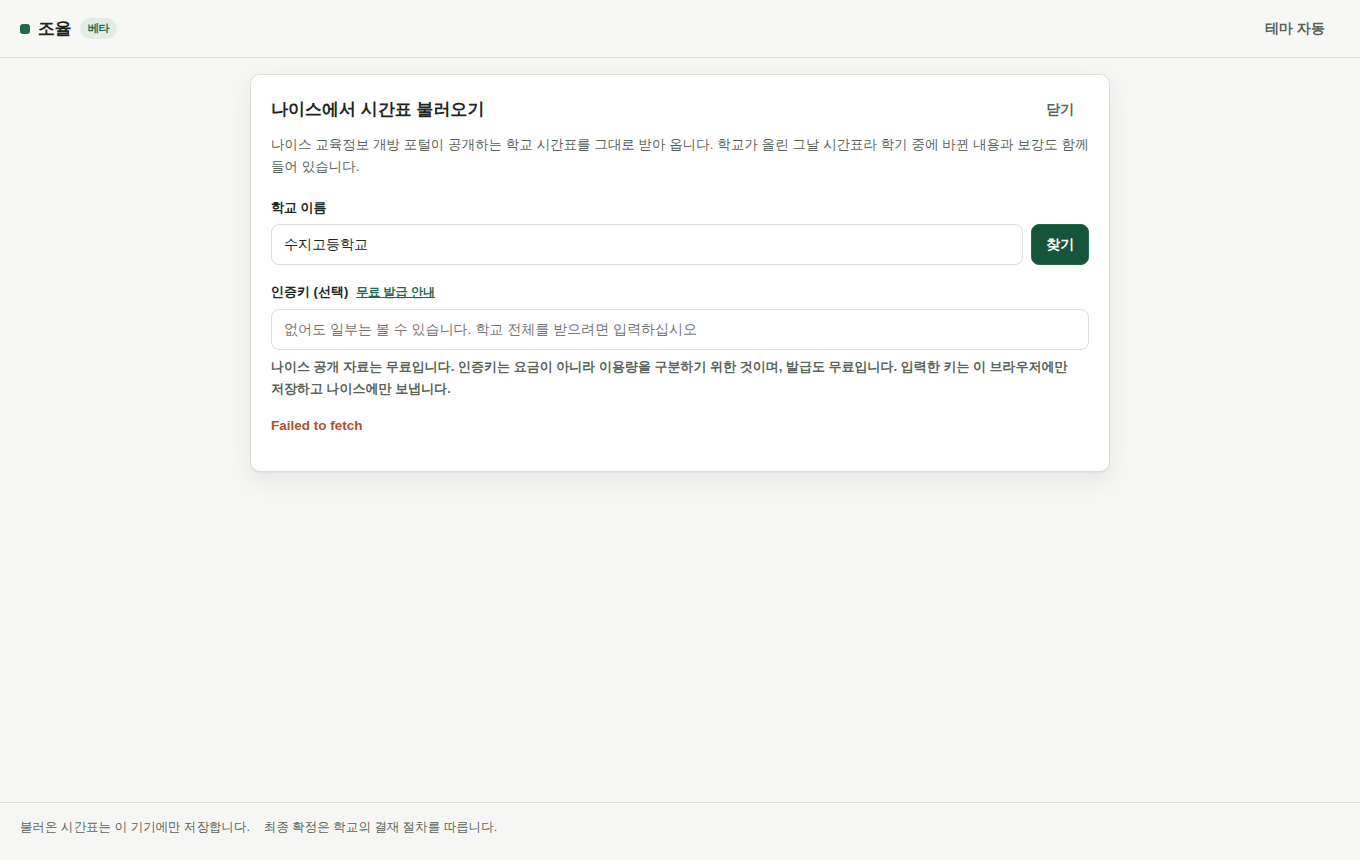
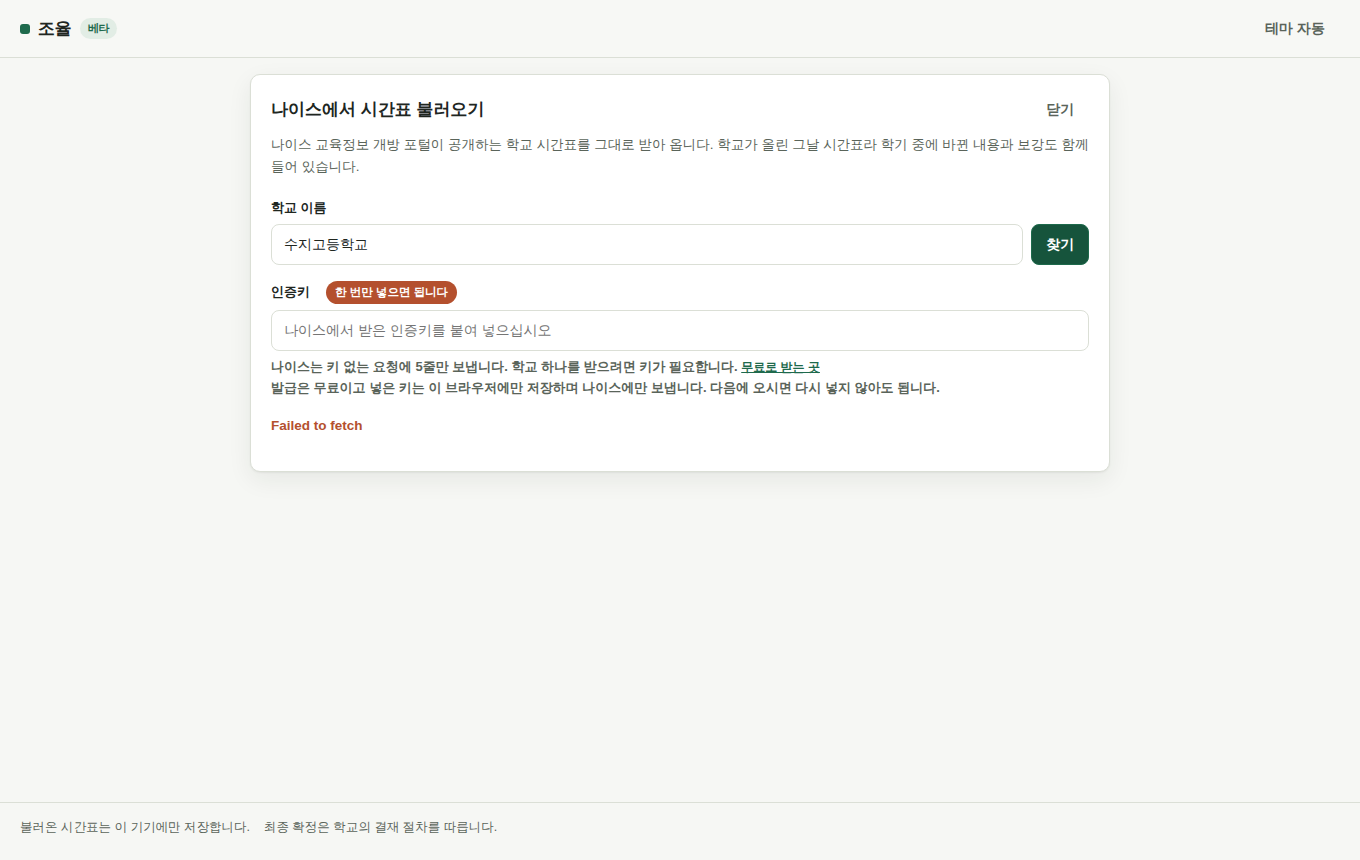
자료가 없는 것을 빈 시간으로 읽던 자리 둘을 막는다
실제 학교 자료를 폰 화면에 띄워 보고 나서야 드러난 것들이다.

## 자료가 없는 요일

수요일이 통째로 비어 있었다. 실제 학교가 수요일에 수업을 안 할 수는 없다. 수집할 때
그 요일을 안 받은 것이었다. 앱은 없는 자료를 정직하게 비워 두었는데, 엔진이 그 빈 자리를
옮겨도 되는 자리로 읽었다.

    추천안 488개 가운데 수요일로 옮기라는 안 21개

담당 교사를 안 채운 자리와 똑같은 잘못이다. 모르는 것을 없는 것으로 바꾸면 그 자리가
비어 보인다. 수업이 하나도 관측되지 않은 요일을 찾아 탐색에서 빼고, 요일 머리글에
사유를 적는다. 고친 뒤 0개가 되었다.

아무것도 못 받은 경우에는 아무 요일도 막지 않는다. 근거가 없을 때 5일을 다 막으면
화면이 통째로 잠긴다.

## 인증키

"인증키 (선택)" 이라고 적어 두었던 것이 잘못이었다. 재어 보니 선택이 아니다.

    GET hisTimetable (학급 하나, 하루, 키 없음)
    list_total_count 6   그날 그 학급은 6교시다
    받은 행 5            6교시는 오지 않는다

쪽 넘김도 듣지 않는다. 게다가 앱은 학교 전체를 한 번에 묻기 때문에 키가 없으면
5주치 수천 행 가운데 5행을 받는다. 그것으로 만든 시간표는 거의 다 빈 시간이고,
빈 시간은 옮겨도 되는 자리로 읽힌다.

경고만 띄우고 통과시키던 것을 멈추게 바꿨다. 몇 줄 가운데 몇 줄이 왔는지와 왜 안 되는지를
숫자로 적는다. 라벨에서 "(선택)" 을 빼고 키가 없으면 "한 번만 넣으면 됩니다",
있으면 "저장됨" 을 붙인다. 키는 이미 이 브라우저에 저장되고 있었다.

## 받은 자료가 어디까지인지 보여 준다

학급 수와 요일과 교시를 적는다. 빠진 요일이 있으면 그 요일과 함께 알린다.
이것이 없어서 수요일이 빠진 것을 아무도 알 수 없었다.

## 그 밖에

힌트 문장이 세 칸으로 쪼개져 있었다. .neis-field 의 flex 규칙이 라벨 줄만이 아니라
힌트 문장에도 걸려, 굵은 글씨와 링크가 각각 flex 항목이 된 탓이다.

요일 머리글 안내 문구가 "자료를 받지 못한 요일이라 수업이 없습니다" 로 어긋나던 것을
사유에 무엇이 오든 문장이 되게 고쳤다.

시험 4개를 더했다. 자료 없는 요일 찾기, 담당 미상 자리를 증거로 세는 것,
근거가 없을 때 아무것도 막지 않는 것, 다 채워졌을 때 빈 요일이 없는 것이다.

Changed region(s): [[0.1853, 0.3023, 0.8029, 0.4837]]

diff --git a/apps/web/components/NeisLoader.tsx b/apps/web/components/NeisLoader.tsx
@@ -74,6 +74,25 @@ export function NeisLoader({ neisKey, onKeyChange, onDone, onCancel }: Props) {
           setError('그 기간의 시간표가 아직 공개되지 않았습니다. 학교에 시간표가 올라간 뒤 다시 시도해 주십시오.');
           return;
         }
+        /*
+         * 잘린 자료로는 다음 단계로 보내지 않는다.
+         *
+         * 키가 없으면 학교 전체 질의에 5행만 온다. 5주치 학교 하나가 수천 행인데 5행이다.
+         * 그것으로 만든 시간표는 거의 다 빈 시간이고, 빈 시간은 "옮겨도 되는 자리"로 읽힌다.
+         * 그러면 성립하지 않는 교체를 잔뜩 내놓는다. 경고만 띄우고 통과시키면
+         * 사용자는 그 경고를 지나치고 틀린 안을 받는다.
+         *
+         * 그래서 여기서 멈추고 무엇이 필요한지 숫자로 알린다.
+         */
+        if (tt.truncated) {
+          setError(
+            `나이스가 ${tt.total.toLocaleString()}줄 가운데 ${tt.rows.length}줄만 보냈습니다. ` +
+              '인증키 없는 요청은 5줄에서 끊기고 쪽 넘김도 되지 않습니다. ' +
+              '이 상태로 만든 시간표는 대부분이 빈 시간이 되어, 실제로는 수업이 있는 자리로 ' +
+              '옮기라는 안이 나옵니다. 아래에 무료 인증키를 넣고 다시 찾아 주십시오.',
+          );
+          return;
+        }
         const rep = fromNeis(tt.rows);
         setSchool(picked);
         setRows(tt.rows);
@@ -81,11 +100,6 @@ export function NeisLoader({ neisKey, onKeyChange, onDone, onCancel }: Props) {
         setRange(range);
         setReport(rep);
         setStage('배정');
-        if (tt.truncated) {
-          setError(
-            '인증키가 없어 일부만 받았습니다. 학교 전체를 받으려면 무료 인증키를 입력하십시오.',
-          );
-        }
       } catch (e) {
         setError(e instanceof Error ? e.message : '시간표를 받지 못했습니다');
       } finally {
@@ -94,6 +108,28 @@ export function NeisLoader({ neisKey, onKeyChange, onDone, onCancel }: Props) {
     },
     [neisKey],
   );
+
+  /**
+   * 받은 자료가 어디까지 덮는지.
+   *
+   * 이것을 보여 주지 않으면 사용자는 받은 것이 온전한지 알 수 없다.
+   * 실제로 어떤 학교 자료에서 수요일이 통째로 빠진 채 들어왔고, 그 요일이 빈 시간으로
+   * 보여 추천안 488개 가운데 21개가 수요일로 옮기라고 했다. 화면에 아무 표시도 없었다.
+   */
+  const coverage = useMemo(() => {
+    const names = ['월', '화', '수', '목', '금'];
+    if (!report) {
+      return { klasses: 0, periods: 0, dayNames: '', missingDays: [] as string[] };
+    }
+    const lessons = report.cells.filter((c) => c.kind === '수업');
+    const seen = new Set(lessons.map((c) => c.day));
+    return {
+      klasses: new Set(lessons.map((c) => c.klass)).size,
+      periods: report.config.periods,
+      dayNames: names.filter((_, i) => seen.has(i)).join(''),
+      missingDays: names.filter((_, i) => i < report.config.days && !seen.has(i)),
+    };
+  }, [report]);
 
   /** 교사를 채워야 할 (학급, 과목) 목록 */
   const pairs = useMemo(() => {
@@ -162,22 +198,36 @@ export function NeisLoader({ neisKey, onKeyChange, onDone, onCancel }: Props) {
           </div>
         </label>
 
+        {/*
+         * 이 자리를 "선택" 으로 적어 두었던 것이 잘못이었다.
+         * 키가 없으면 나이스가 학교 전체 질의에 5행만 준다. 쪽 넘김도 듣지 않는다.
+         * 실측에서 어떤 학급의 하루가 6교시인데 5행에서 끊겼다.
+         * 학교 하나를 받아 교체를 찾는 일은 키 없이 되지 않는다.
+         * 선택이라고 적으면 안 넣고 진행했다가 빈 시간표를 보고 도구를 접는다.
+         */}
         <label className="neis-field">
           <span>
-            인증키 (선택)
-            <a className="neis-link" href={NEIS_KEY_GUIDE} target="_blank" rel="noreferrer">
-              무료 발급 안내
-            </a>
+            인증키
+            {neisKey === '' ? (
+              <b className="neis-need">한 번만 넣으면 됩니다</b>
+            ) : (
+              <b className="neis-ok">저장됨</b>
+            )}
           </span>
           <input
             className="input"
-            placeholder="없어도 일부는 볼 수 있습니다. 학교 전체를 받으려면 입력하십시오"
+            placeholder="나이스에서 받은 인증키를 붙여 넣으십시오"
             value={neisKey}
             onChange={(e) => onKeyChange(e.target.value.trim())}
           />
           <span className="neis-hint">
-            나이스 공개 자료는 무료입니다. 인증키는 요금이 아니라 이용량을 구분하기 위한 것이며,
-            발급도 무료입니다. 입력한 키는 이 브라우저에만 저장하고 나이스에만 보냅니다.
+            나이스는 키 없는 요청에 <b>5줄만</b> 보냅니다. 학교 하나를 받으려면 키가 필요합니다.{' '}
+            <a className="neis-link" href={NEIS_KEY_GUIDE} target="_blank" rel="noreferrer">
+              무료로 받는 곳
+            </a>
+            <br />
+            발급은 무료이고 넣은 키는 이 브라우저에만 저장하며 나이스에만 보냅니다. 다음에 오시면
+            다시 넣지 않아도 됩니다.
           </span>
         </label>
 
@@ -227,8 +277,18 @@ export function NeisLoader({ neisKey, onKeyChange, onDone, onCancel }: Props) {
 
       {report && (
         <p className="neis-facts">
-          최근 5주 시간표를 받았습니다. 휴업일 {report.holidays.length}일과 보강{' '}
+          최근 5주 시간표를 받았습니다. 학급 {coverage.klasses}개, {coverage.dayNames} 요일,{' '}
+          {coverage.periods}교시까지입니다. 휴업일 {report.holidays.length}일과 보강{' '}
           {report.covers.length}건이 들어 있습니다.
+          {coverage.missingDays.length > 0 && (
+            <>
+              {' '}
+              <b className="neis-warn">
+                {coverage.missingDays.join(', ')} 요일은 자료에 없습니다. 그 요일로 옮기는 안은
+                내지 않습니다. 기간을 넓혀 다시 받으시면 채워집니다.
+              </b>
+            </>
+          )}
         </p>
       )}
       {error && <p className="neis-error">{error}</p>}

diff --git a/apps/web/test/app.test.ts b/apps/web/test/app.test.ts
@@ -5,6 +5,7 @@ import {
   buildNeisList,
   deriveBurden,
   calendarCoversThisWeek,
+  blankDaysOf,
   fromFile,
   gradeOf,
   normalizeName,
@@ -16,6 +17,7 @@ import {
   type Loaded,
 } from '../lib/app';
 import type { NeisEvent } from '../lib/neis';
+import type { ScheduleConfig, TimetableInput } from '@timeswap/engine';
 
 const cfg = { days: 5, periods: 7, dayNames: ['월', '화', '수', '목', '금'] };
 
@@ -350,5 +352,48 @@ describe('보강 반영', () => {
     const list = buildNeisList('보기 학교', [entry], cfg);
     expect(list).toContain('김결강 → 이한가');
     expect(list).toContain('보강(교사 변경)');
+  });
+});
+
+describe('자료가 없는 요일', () => {
+  const cfg4: ScheduleConfig = { days: 5, periods: 4, dayNames: ['월', '화', '수', '목', '금'] };
+
+  it('수업이 하나도 없는 요일을 찾아낸다', () => {
+    // 월(0~3)과 목(12~15)에만 수업이 있다. 화, 수, 금은 자료가 없다.
+    const input: TimetableInput = {
+      config: cfg4,
+      assignments: [
+        { teacher: '김국어', klass: '1-1', subject: '국어', slot: 0 },
+        { teacher: '김국어', klass: '1-1', subject: '국어', slot: 12 },
+      ],
+    };
+    expect(blankDaysOf(input)).toEqual([1, 2, 4]);
+  });
+
+  it('담당을 모르는 자리도 수업이 있다는 증거로 센다', () => {
+    const input: TimetableInput = {
+      config: cfg4,
+      assignments: [{ teacher: '김국어', klass: '1-1', subject: '국어', slot: 0 }],
+      klassBusy: { '1-2': [5, 9] }, // 화, 수
+    };
+    expect(blankDaysOf(input)).toEqual([3, 4]);
+  });
+
+  it('아무것도 못 받았으면 아무 요일도 막지 않는다', () => {
+    // 여기서 5일 전부를 막으면 화면이 통째로 잠긴다. 근거가 없을 때는 손대지 않는다.
+    expect(blankDaysOf({ config: cfg4, assignments: [] })).toEqual([]);
+  });
+
+  it('요일이 다 채워져 있으면 빈 요일이 없다', () => {
+    const input: TimetableInput = {
+      config: cfg4,
+      assignments: [0, 4, 8, 12, 16].map((slot) => ({
+        teacher: '김국어',
+        klass: '1-1',
+        subject: '국어',
+        slot,
+      })),
+    };
+    expect(blankDaysOf(input)).toEqual([]);
   });
 });

diff --git a/apps/web/components/Workbench.tsx b/apps/web/components/Workbench.tsx
@@ -27,6 +27,7 @@ import { BRAND } from '../lib/brand';
 import {
   applyAll,
   applyTheme,
+  blankDaysOf,
   buildClosures,
   buildCoverPhrase,
   calendarCoversThisWeek,
@@ -134,18 +135,25 @@ export function Workbench() {
 
   const base = loaded?.input ?? null;
 
+  /** 받은 자료에 수업이 하나도 없는 요일. 그 요일로는 옮기지 않는다 */
+  const blankDays = useMemo(() => (base ? blankDaysOf(base) : []), [base]);
+
   /**
    * 이번 주 휴업일. 나이스 학사일정에서 온다.
    * 시간표는 되풀이되는 한 주지만 학사일정은 날짜라 이번 주에 걸리는 것만 요일로 옮긴다.
    */
   const closures = useMemo(() => {
     const own = offDays.map((day) => ({ day, reason: '수업 없는 날로 지정됨' }));
+    // 자료가 없는 요일이 가장 앞에 온다. 사유가 가려지면 왜 빠졌는지 알 수 없다.
+    const blank = blankDays.map((day) => ({ day, reason: '자료를 받지 못한 요일' }));
     const cal = loaded?.calendar;
-    if (!cal || cal.events.length === 0 || !base || !calendarCoversThisWeek(cal)) return own;
+    if (!cal || cal.events.length === 0 || !base || !calendarCoversThisWeek(cal)) {
+      return [...blank, ...own];
+    }
     const ks = [...new Set(base.assignments.map((a) => a.klass))];
     // 손으로 지정한 것이 학사일정보다 뒤에 온다. 앞의 것이 이기므로 학사일정 사유가 남는다.
-    return [...buildClosures(cal.events, ks), ...own];
-  }, [loaded, base, offDays]);
+    return [...blank, ...buildClosures(cal.events, ks), ...own];
+  }, [loaded, base, offDays, blankDays]);
 
   /** 학사일정을 받아 두긴 했는데 그 기간이 이번 주를 지나쳤다. 다시 받아야 한다. */
   const staleCalendar =

diff --git a/apps/web/lib/app.ts b/apps/web/lib/app.ts
@@ -1,5 +1,6 @@
 import {
   applyChanges,
+  dayOf,
   fromNeis,
   genSchool,
   neisToTimetable,
@@ -209,6 +210,31 @@ export function normalizeName(raw: string): string {
 
 const ymd = (d: Date): string =>
   `${d.getFullYear()}${String(d.getMonth() + 1).padStart(2, '0')}${String(d.getDate()).padStart(2, '0')}`;
+
+/**
+ * 받은 자료에 수업이 하나도 없는 요일.
+ *
+ * 나이스를 부를 때 기간이 짧거나 중간에 실패하면 어떤 요일이 통째로 빠질 수 있다.
+ * 실제 특성화고 자료에서 수요일이 빠진 채로 들어왔고, 그 요일이 빈 시간으로 보여
+ * 추천안 488개 가운데 21개가 수요일로 옮기라고 했다. 학교는 그날 수업을 한다.
+ *
+ * 담당 교사를 안 채운 자리와 같은 종류의 잘못이다. 모르는 것을 없는 것으로 바꾸면
+ * 그 자리가 비어 보인다. 그래서 자료가 없는 요일을 찾아 탐색에서 뺀다.
+ *
+ * 담당을 모르는 자리(klassBusy)도 수업이 있다는 증거로 센다. 그것까지 없는 요일만 고른다.
+ */
+export function blankDaysOf(input: TimetableInput): number[] {
+  const cfg = input.config;
+  if (input.assignments.length === 0 && !input.klassBusy) return [];
+  const seen = new Set<number>();
+  for (const a of input.assignments) seen.add(dayOf(a.slot, cfg));
+  for (const slots of Object.values(input.klassBusy ?? {})) {
+    for (const s of slots) seen.add(dayOf(s, cfg));
+  }
+  // 아무것도 못 받았으면 요일을 가릴 근거가 없다. 전부 막으면 도구가 아니다.
+  if (seen.size === 0) return [];
+  return [...Array(cfg.days).keys()].filter((d) => !seen.has(d));
+}
 
 /**
  * 학사일정을 지금 다루는 주의 요일 단위로 바꾼다.

diff --git a/apps/web/app/globals.css b/apps/web/app/globals.css
@@ -583,9 +583,25 @@ button.cell.empty:hover { border-color: var(--muted); }
 .neis-head h2 { font-size: 17px; font-weight: 800; margin: 0; flex: 1; }
 .neis-lede { color: var(--muted); font-size: 13.5px; margin: 0 0 18px; text-wrap: pretty; }
 .neis-field { display: flex; flex-direction: column; gap: 6px; margin-bottom: 16px; }
+/*
+ * 라벨 줄만 flex 다. 힌트 문장까지 걸리면 안 된다.
+ * 힌트 안에 굵은 글씨와 링크를 넣었더니 그 셋이 각각 flex 항목이 되어
+ * 문장이 세 칸으로 쪼개졌다. 아래 .neis-hint 가 그것을 되돌린다.
+ */
 .neis-field > span { font-size: 13px; font-weight: 700; display: flex; align-items: baseline; gap: 8px; }
+.neis-field > span.neis-hint { display: block; }
 .neis-link { font-size: 12px; font-weight: 600; color: var(--accent); }
-.neis-hint { font-size: 12px; color: var(--muted); font-weight: 400; }
+.neis-hint { font-size: 12px; color: var(--muted); font-weight: 400; line-height: 1.6; }
+/* 인증키가 없는 상태를 눈에 띄게 둔다. 선택이라고 읽히면 안 넣고 진행한다 */
+.neis-need {
+  font-size: 11.5px; font-weight: 700; color: var(--on-accent); background: var(--warn);
+  border-radius: 999px; padding: 2px 9px; margin-left: 8px;
+}
+.neis-ok {
+  font-size: 11.5px; font-weight: 700; color: var(--accent); background: var(--accent-soft);
+  border-radius: 999px; padding: 2px 9px; margin-left: 8px;
+}
+.neis-warn { color: var(--warn); font-weight: 700; }
 .neis-row { display: flex; gap: 8px; }
 .neis-row .input { flex: 1; }
 .input {

diff --git a/apps/web/components/Grid.tsx b/apps/web/components/Grid.tsx
@@ -123,8 +123,10 @@ export function Grid({
                 key={d}
                 className={`tt-head day-btn${todayIdx === di ? " today" : ""}${why !== undefined ? " closed" : ""}`}
                 title={
+                  // 사유가 휴업일일 수도, 자료를 못 받은 요일일 수도 있다.
+                  // 어느 쪽이든 문장이 되도록 사유를 그대로 두고 뒤를 붙인다.
                   why !== undefined
-                    ? `${why}이라 수업이 없습니다`
+                    ? `${why}. 이 요일로는 옮기지 않습니다`
                     : "그날 수업 전체 선택"
                 }
                 onClick={() => onToggleDay(di)}

diff --git a/05-field-measurement.md b/05-field-measurement.md
@@ -234,7 +234,7 @@ ALL_TI_YMD + GRADE + CLASS_NM 으로 좁히면 그 학급 그날이 5행 안에 
 
 분포를 재는 것과 자료를 통과시키는 것은 다른 일이다.
 특성화고 한 곳(부천공업고, 열흘치)을 받아 어댑터부터 추천까지 전 과정을 돌렸다.
-**합성 자료에서는 드러나지 않던 잘못이 둘 나왔다.**
+**합성 자료에서는 드러나지 않던 잘못이 넷 나왔다.**
 
 ### 6.1 하루 종일 실습을 휴업일로 읽었다
 
@@ -277,7 +277,39 @@ ALL_TI_YMD + GRADE + CLASS_NM 으로 좁히면 그 학급 그날이 5행 안에 
 
 고친 뒤 같은 자료에서 틀린 이동이 0건이 되었고 쓸 수 있는 추천안은 387개가 남았다.
 
-### 6.3 분반과 합반이 한 자리에서 만나면 시간표가 깨졌다
+### 6.3 자료가 없는 요일을 빈 시간으로 읽었다
+
+같은 학교 자료를 폰 화면에 띄워 보니 수요일이 통째로 비어 있었다. 실제 학교가 수요일에
+수업을 안 할 수는 없다. 수집할 때 그 요일을 안 받은 것이었다.
+
+앱은 없는 자료를 정직하게 비워 두었는데, **그 빈 자리를 엔진이 옮겨도 되는 자리로 읽었다.**
+
+```
+추천안 488개 가운데 수요일로 옮기라는 안 21개
+```
+
+담당 교사를 안 채운 자리와 똑같은 잘못이다. 모르는 것을 없는 것으로 바꾸면 그 자리가
+비어 보인다. 수업이 하나도 관측되지 않은 요일을 찾아 탐색에서 뺐고, 화면에 그 요일과
+이유를 함께 적는다. 고친 뒤 같은 자료에서 0개가 되었다.
+
+### 6.4 인증키 없이는 학교 하나를 받을 수 없다
+
+"인증키 (선택)" 이라고 적어 두었던 것이 잘못이었다. 재어 보니 선택이 아니다.
+
+```
+GET hisTimetable  (학급 하나, 하루, 키 없음)
+→ list_total_count: 6      그날 그 학급은 6교시다
+→ 받은 행: 5               6교시는 오지 않는다
+```
+
+쪽 넘김도 듣지 않는다. 게다가 앱은 학교 전체를 한 번에 묻기 때문에, 키가 없으면
+**5주치 수천 행 가운데 5행**을 받는다. 그것으로 만든 시간표는 거의 다 빈 시간이고,
+빈 시간은 옮겨도 되는 자리로 읽힌다.
+
+경고만 띄우고 통과시키던 것을 멈추게 바꿨다. 잘린 자료로는 다음 단계로 가지 않는다.
+받은 뒤에는 학급 수와 요일과 교시를 화면에 적어 온전한지 사용자가 볼 수 있게 했다.
+
+### 6.5 분반과 합반이 한 자리에서 만나면 시간표가 깨졌다
 
 3학년 6반이 두 강좌로 나뉘는데, 그중 한 강좌를 맡는 분이 같은 교시에 3학년 5반도 맡고 있었다.
 셋이 한 덩어리인데 분반 묶기와 합반 묶기를 따로 돌려 두 조각으로 갈렸다.
